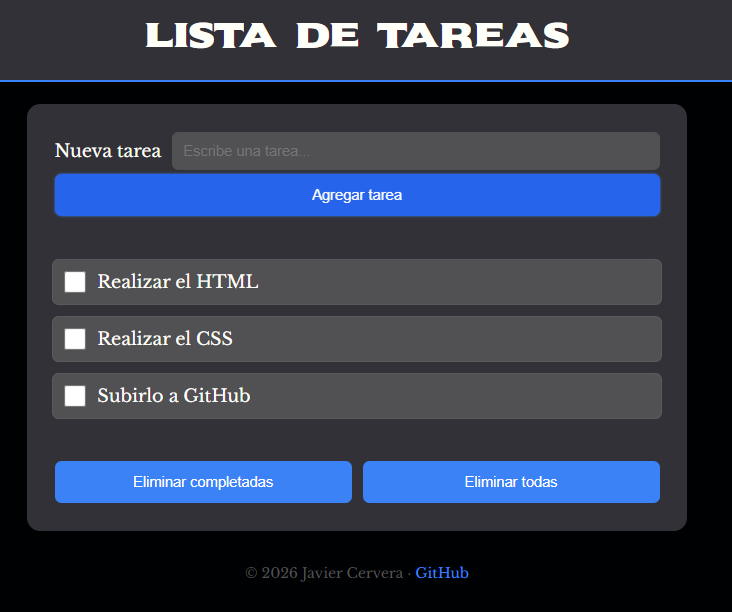
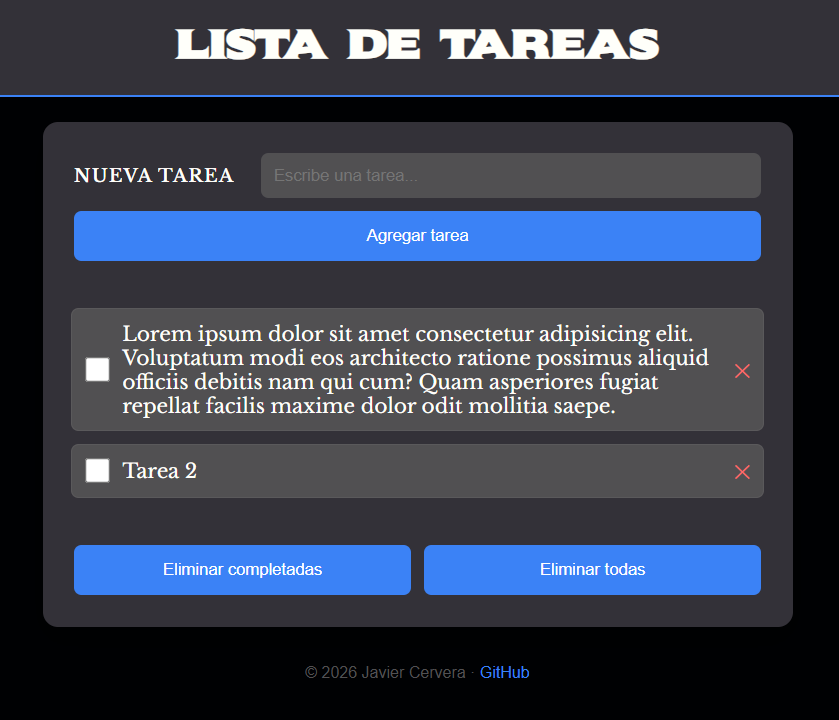
feat: add JavaScript todo list functionality

Changed region(s): [[0.0, 0.1242, 1.0, 0.8693], [0.1803, 0.031, 0.7814, 0.0931], [0.3306, 0.9003, 0.6311, 0.9624]]

diff --git a/js/app.js b/js/app.js
@@ -1,0 +1,93 @@
+const taskInput = document.getElementById("task-input");
+const taskList = document.getElementById("task-list");
+
+const taskForm = document.getElementById("task-form");
+const dltComTask = document.getElementById("btn-dlt-completed");
+const dltAllTask = document.getElementById("btn-dlt-all");
+
+let tasks = [];
+
+function renderTasks() {
+  taskList.innerHTML = "";
+  if (tasks.length === 0) {
+    const emptyMessage = document.createElement("li");
+    emptyMessage.textContent = "No hay tareas";
+    emptyMessage.classList.add("empty-message");
+    taskList.appendChild(emptyMessage);
+    return;
+  }
+  tasks.forEach((task) => {
+    const li = document.createElement("li");
+    li.classList.add("task-item");
+
+    const checkbox = document.createElement("input");
+    checkbox.type = "checkbox";
+    checkbox.classList.add("task-checkbox");
+
+    checkbox.checked = task.completed;
+    checkbox.addEventListener("change", () => {
+      task.completed = checkbox.checked;
+      updateTasks();
+    });
+
+    const span = document.createElement("span");
+    span.textContent = task.text;
+    span.classList.add("task-text");
+
+    const deleteBtn = document.createElement("button");
+    deleteBtn.textContent = "✕";
+    deleteBtn.classList.add("delete-btn");
+    deleteBtn.addEventListener("click", () => {
+      tasks = tasks.filter((t) => t !== task);
+
+      updateTasks();
+    });
+    li.appendChild(checkbox);
+    li.appendChild(span);
+    li.appendChild(deleteBtn);
+    taskList.appendChild(li);
+  });
+}
+function addTask(event) {
+  event.preventDefault();
+  const taskText = taskInput.value.trim();
+  if (taskText === "") return;
+  tasks.push({
+    text: taskText,
+    completed: false,
+  });
+  taskInput.value = "";
+  updateTasks();
+}
+function deleteAllTask() {
+  const confirmDelete = confirm(
+    "¿Seguro que quieres eliminar todas las tareas?",
+  );
+
+  if (!confirmDelete) return;
+  tasks = [];
+  updateTasks();
+}
+function deleteCompleteTasks() {
+  tasks = tasks.filter((task) => !task.completed);
+  updateTasks();
+}
+function saveTasks() {
+  localStorage.setItem("tasks", JSON.stringify(tasks));
+}
+function loadTasks() {
+  const storedTasks = localStorage.getItem("tasks");
+  if (storedTasks) {
+    tasks = JSON.parse(storedTasks);
+  }
+  renderTasks();
+}
+function updateTasks() {
+  saveTasks();
+  renderTasks();
+}
+
+taskForm.addEventListener("submit", addTask);
+dltAllTask.addEventListener("click", deleteAllTask);
+dltComTask.addEventListener("click", deleteCompleteTasks);
+loadTasks();

diff --git a/css/styles.css b/css/styles.css
@@ -83,7 +83,7 @@ form div {
 }
 
 /* Label */
-label {
+.form-label {
   text-align: center;
 
   text-transform: uppercase;
@@ -107,7 +107,9 @@ input[type="text"] {
   background: var(--surface-light);
   color: var(--text);
 
-  transition: all 0.2s ease;
+  transition:
+    background 0.2s ease,
+    outline 0.2s ease;
 }
 
 input[type="text"]:focus {
@@ -130,19 +132,55 @@ input[type="text"]:focus {
 
   cursor: pointer;
 
-  transition: all 0.2s ease;
+  transition:
+    background 0.2s ease,
+    transform 0.2s ease,
+    box-shadow 0.2s ease;
 }
 
 .btn:hover {
   background: var(--accent-hover);
 
-  box-shadow: 0 0 4px var(--accent);
+  box-shadow: 0 0 10px rgba(59, 130, 246, 0.5);
 
   transform: translateY(-1px);
 }
 
 .btn:active {
   transform: translateY(0);
+}
+
+/* Delete button */
+.delete-btn {
+  background: transparent;
+  border: none;
+
+  color: #ff6b6b;
+
+  font-size: 1rem;
+
+  cursor: pointer;
+
+  transition:
+    color 0.2s ease,
+    transform 0.2s ease;
+}
+
+.delete-btn:hover {
+  color: #ff3b3b;
+
+  transform: scale(1.1);
+}
+
+/* =========================
+   EMPTY MESSAGE
+   ========================= */
+.empty-message {
+  text-align: center;
+
+  opacity: 0.7;
+
+  padding: 5px;
 }
 
 /* =========================
@@ -164,6 +202,10 @@ input[type="text"]:focus {
    TASK ITEM
    ========================= */
 .task-item {
+  display: flex;
+  align-items: center;
+  gap: 10px;
+
   padding: 10px;
 
   background: var(--surface-light);
@@ -172,24 +214,15 @@ input[type="text"]:focus {
 
   border: 1px solid rgba(255, 255, 255, 0.05);
 
-  transition: all 0.2s ease;
+  transition:
+    background 0.2s ease,
+    transform 0.2s ease;
 }
 
 .task-item:hover {
   background: #5a585c;
 
   transform: translateX(3px);
-}
-
-/* =========================
-   TASK LABEL
-   ========================= */
-.task-label {
-  display: flex;
-  align-items: center;
-  gap: 10px;
-
-  cursor: pointer;
 }
 
 /* Checkbox */
@@ -202,6 +235,13 @@ input[type="text"]:focus {
   accent-color: var(--accent);
 
   cursor: pointer;
+}
+
+/* Task text */
+.task-text {
+  flex: 1;
+
+  word-break: break-word;
 }
 
 /* Completed task */
@@ -245,7 +285,9 @@ input[type="text"]:focus {
 
   text-decoration: none;
 
-  transition: all 0.2s ease;
+  transition:
+    color 0.2s ease,
+    text-shadow 0.2s ease;
 }
 
 .footer a:hover {
@@ -264,6 +306,14 @@ input[type="text"]:focus {
 @media (min-width: 480px) {
   .actions {
     flex-direction: row;
+  }
+  form div {
+    flex-direction: row;
+    align-items: center;
+  }
+  .form-label {
+    min-width: 140px;
+    text-align: left;
   }
 }
 

diff --git a/index.html b/index.html
@@ -13,9 +13,9 @@
     </header>
 
     <main class="container libre-baskerville">
-      <form action="#">
+      <form id="task-form">
         <div>
-          <label for="task-input">Nueva tarea</label>
+          <label class="form-label" for="task-input">Nueva tarea</label>
           <input
             id="task-input"
             name="task"
@@ -31,28 +31,7 @@
       </form>
 
       <section class="task-list">
-        <ul id="task-list">
-          <li class="task-item">
-            <label class="task-label">
-              <input type="checkbox" name="task" class="task-checkbox" />
-              <span class="task-text">Realizar el HTML</span>
-            </label>
-          </li>
-
-          <li class="task-item">
-            <label class="task-label">
-              <input type="checkbox" name="task" class="task-checkbox" />
-              <span class="task-text">Realizar el CSS</span>
-            </label>
-          </li>
-
-          <li class="task-item">
-            <label class="task-label">
-              <input type="checkbox" name="task" class="task-checkbox" />
-              <span class="task-text">Subirlo a GitHub </span>
-            </label>
-          </li>
-        </ul>
+        <ul id="task-list"></ul>
       </section>
 
       <section class="actions">
@@ -69,5 +48,6 @@
         <a href="https://github.com/jacercen" target="_blank"> GitHub </a>
       </p>
     </footer>
+    <script src="js/app.js"></script>
   </body>
 </html>

diff --git a/README.md b/README.md
@@ -1,6 +1,6 @@
 # Lista de Tareas
 
-Aplicación sencilla de lista de tareas desarrollada con **HTML y CSS**, enfocada en la práctica de maquetación, diseño moderno y responsive.
+Aplicación de lista de tareas desarrollada con HTML, CSS y JavaScript Vanilla, enfocada en la manipulación del DOM, gestión de estado y persistencia de datos con localStorage.
 
 ---
 
@@ -10,6 +10,10 @@ Aplicación sencilla de lista de tareas desarrollada con **HTML y CSS**, enfocad
 - Marcar tareas como completadas
 - Diseño moderno con tema oscuro
 - Interfaz limpia y fácil de usar
+- Eliminar tareas individuales
+- Eliminar tareas completadas
+- Eliminar todas las tareas
+- Persistencia automática mediante localStorage
 - Responsive:
   - 📱 Móvil (vertical y horizontal)
   - 💻 Escritorio
@@ -21,6 +25,9 @@ Aplicación sencilla de lista de tareas desarrollada con **HTML y CSS**, enfocad
 - HTML5
 - CSS3 (Flexbox)
 - Variables CSS (custom properties)
+- JavaScript Vanilla
+- LocalStorage API
+- Manipulación del DOM
 
 ---
 
@@ -42,9 +49,11 @@ La aplicación está adaptada para diferentes tamaños de pantalla:
 
 Este proyecto forma parte de mi aprendizaje en desarrollo web, con el objetivo de:
 
-- Practicar estructura HTML semántica
-- Mejorar el uso de CSS (Flexbox, variables, responsive)
-- Entender la importancia del diseño y la experiencia de usuario (UX)
+- Practicar manipulación del DOM
+- Gestionar el estado de la aplicación mediante JavaScript
+- Aplicar el patrón Single Source of Truth
+- Implementar persistencia de datos con localStorage
+- Mejorar la organización y mantenibilidad del código
 
 ---
 
@@ -56,7 +65,7 @@ Este proyecto forma parte de mi aprendizaje en desarrollo web, con el objetivo d
 
 ## 🔗 Demo
 
-https://jacercen.github.io/todo-list/
+[Ver demo](https://jacercen.github.io/todo-list-js/)
 
 ---
 
@@ -64,16 +73,18 @@ https://jacercen.github.io/todo-list/
 
 **Javier Cervera**
 
-- GitHub: https://github.com/jacercen
+- GitHub: [@jacercen](https://github.com/jacercen)
 
 ---
 
 ## 📌 Notas
 
-Este proyecto es una base que se podrá ampliar en el futuro añadiendo:
+Posibles mejoras futuras:
 
-- JavaScript para funcionalidad completa
-- Persistencia de datos
-- Mejoras visuales y animaciones
+- Edición de tareas
+- Filtros (todas / completadas / pendientes)
+- Drag & drop
+- Animaciones más avanzadas
+- Tests y refactorización
 
 ---